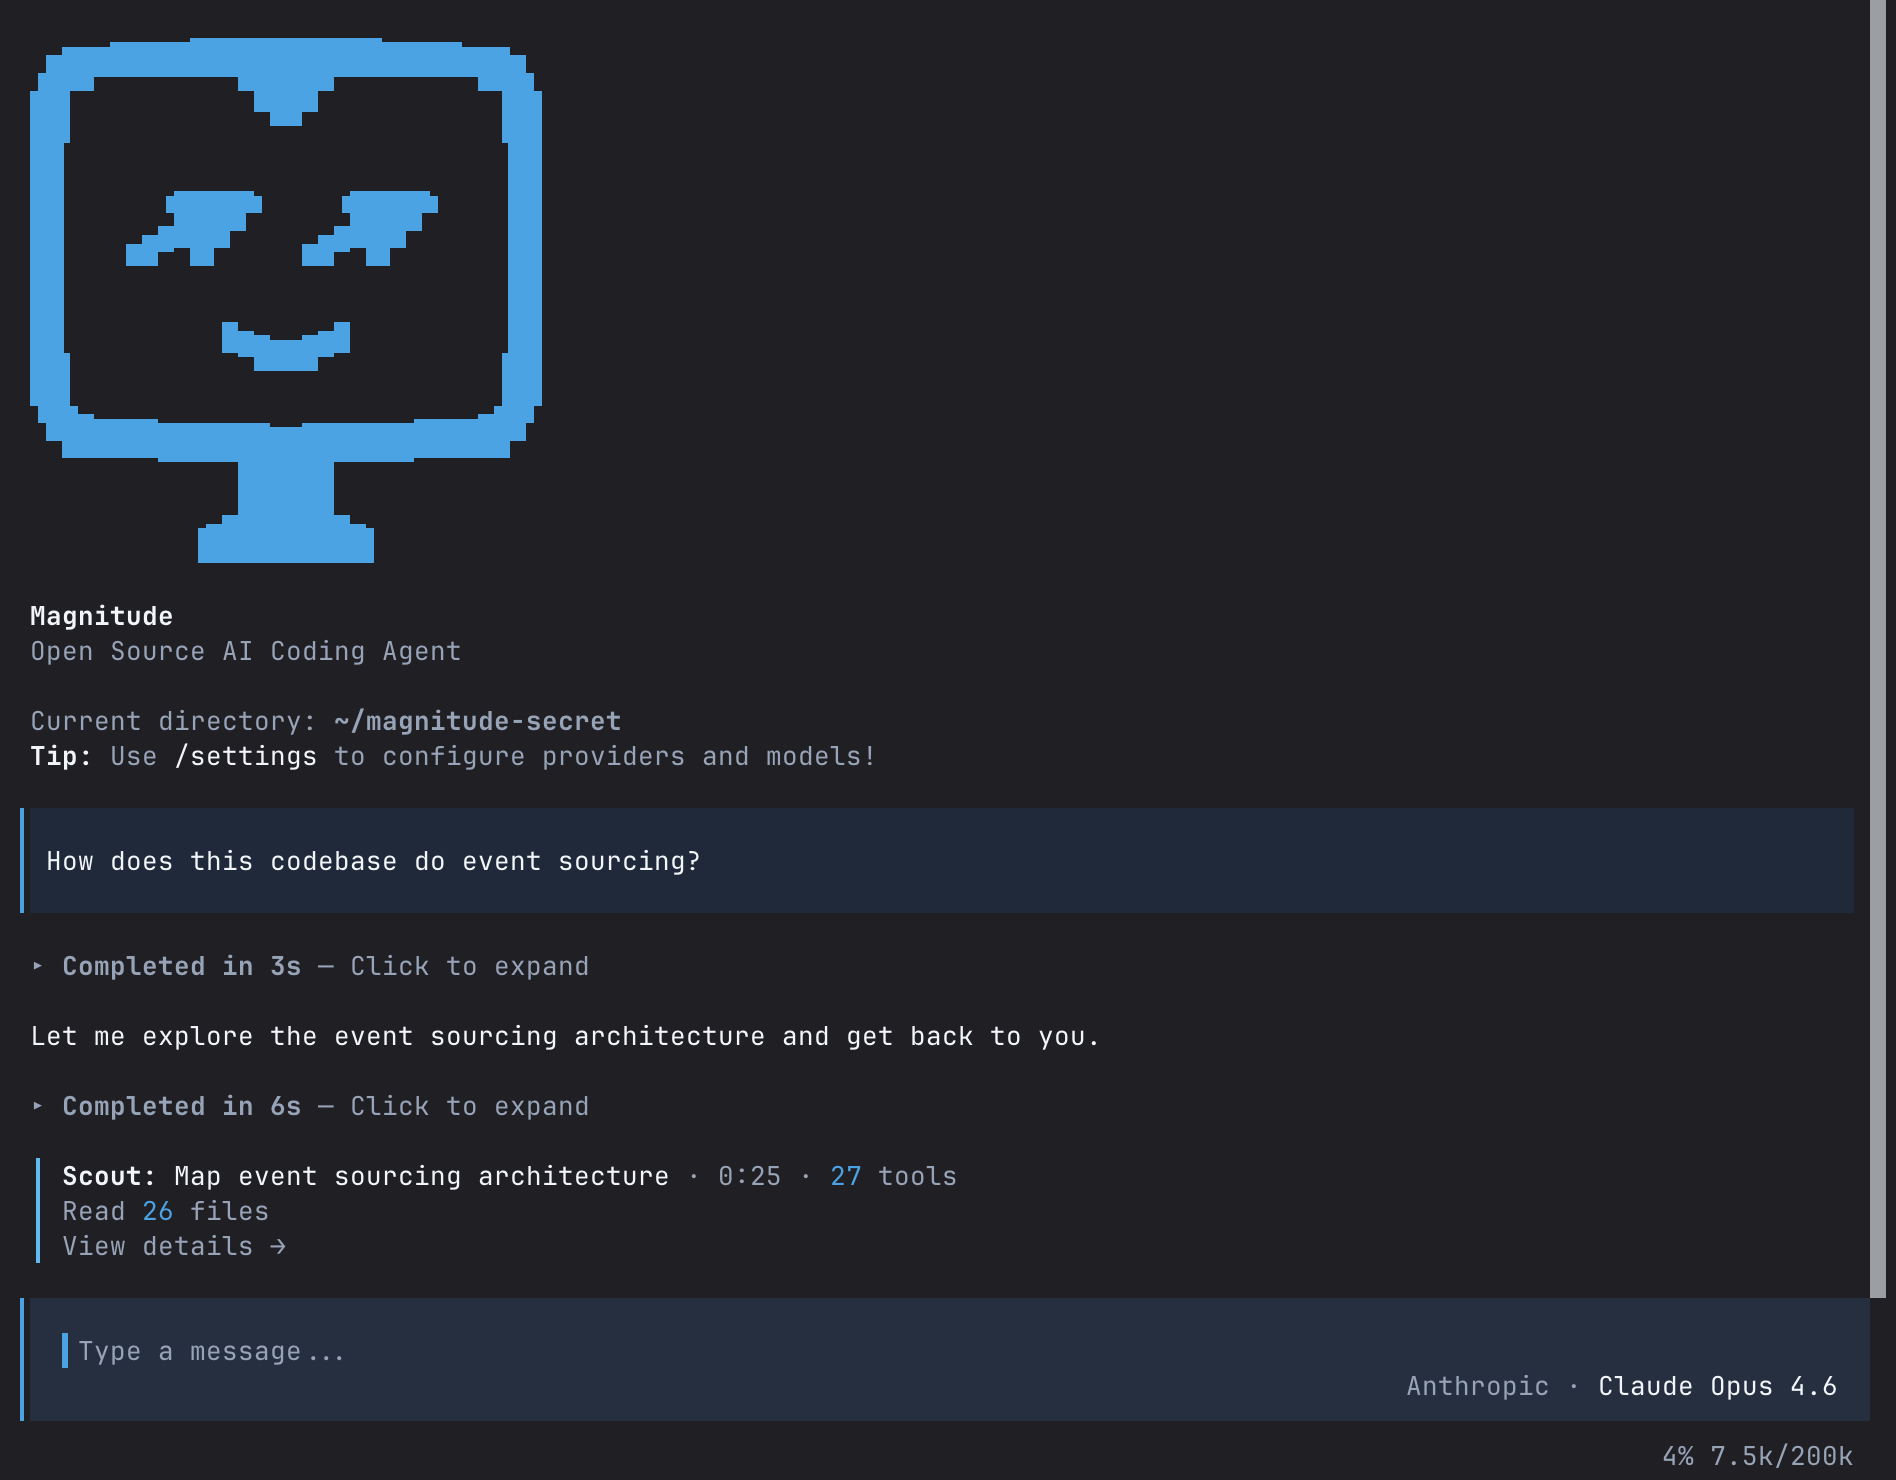
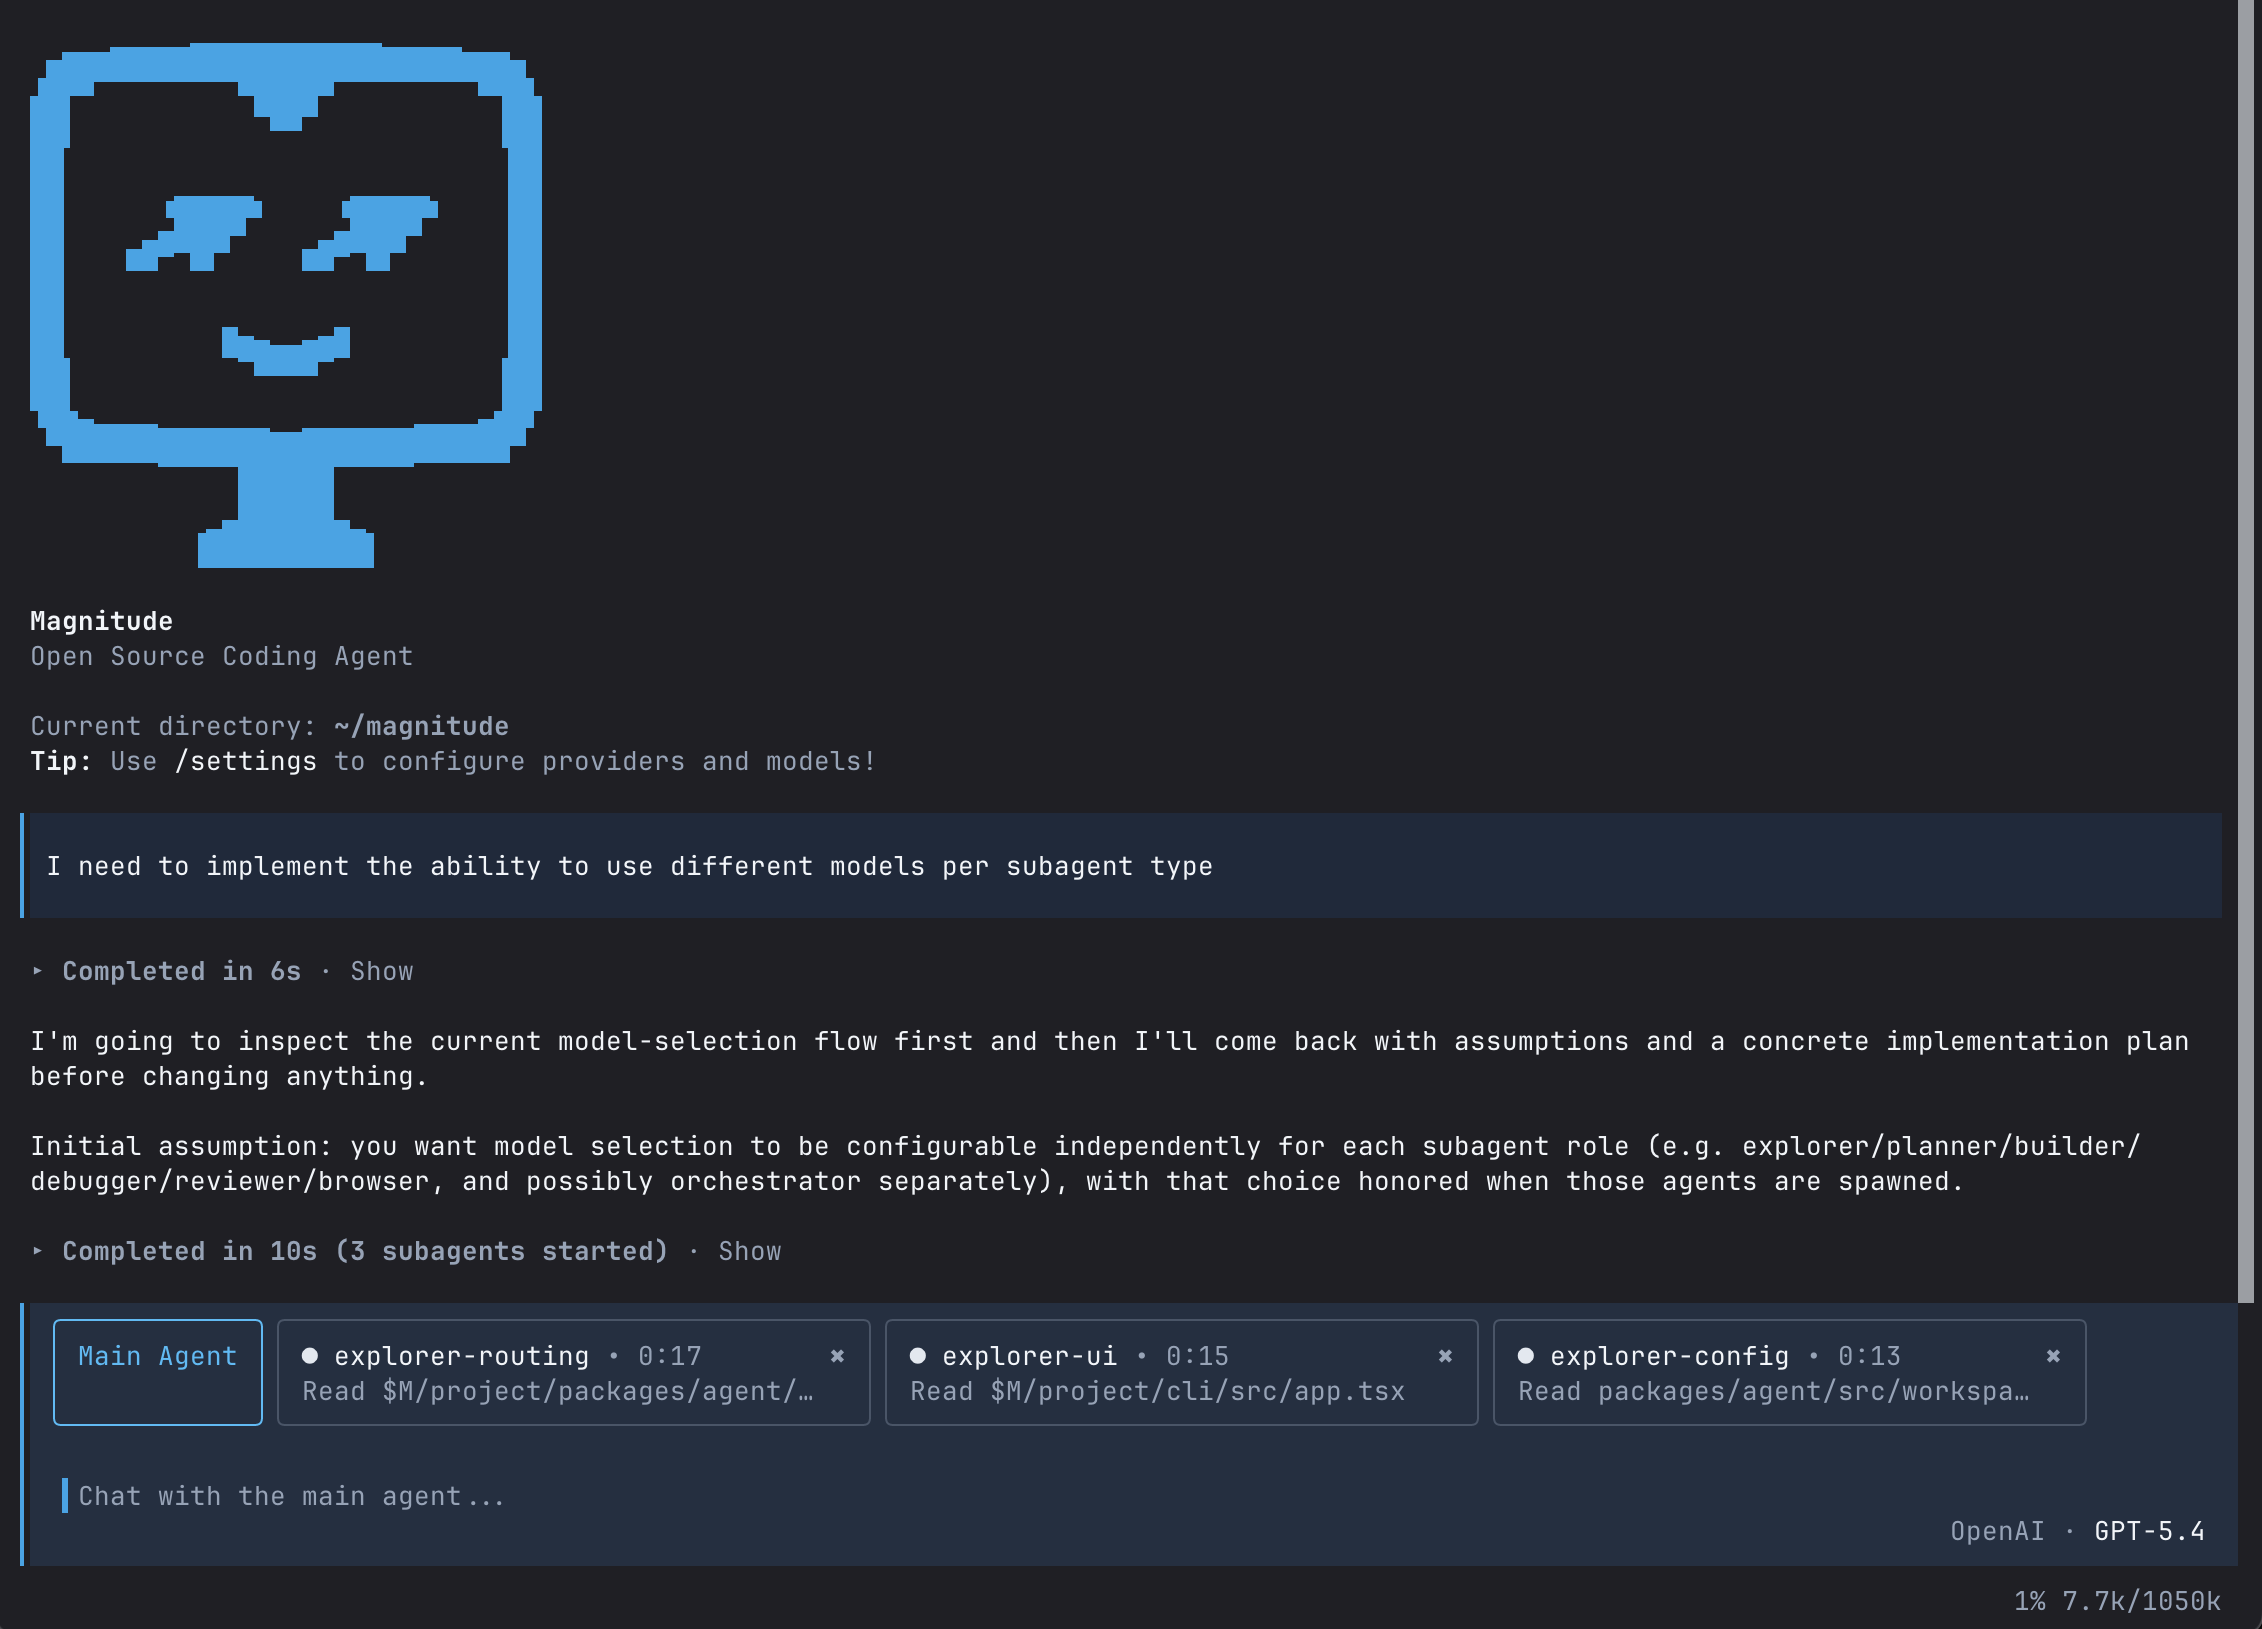
Small prompt tweaks to encourage more consitent subagent usage + new interface screenshot:

diff --git a/cli/src/components/animated-logo.tsx b/cli/src/components/animated-logo.tsx
@@ -13,7 +13,7 @@ export function AnimatedLogo() {
       ))}
       <text>{' '}</text>
       <text style={{ fg: theme.foreground }} attributes={TextAttributes.BOLD}>Magnitude</text>
-      <text style={{ fg: theme.muted }}>Open Source AI Coding Agent</text>
+      <text style={{ fg: theme.muted }}>Open Source Coding Agent</text>
     </box>
   )
 }
